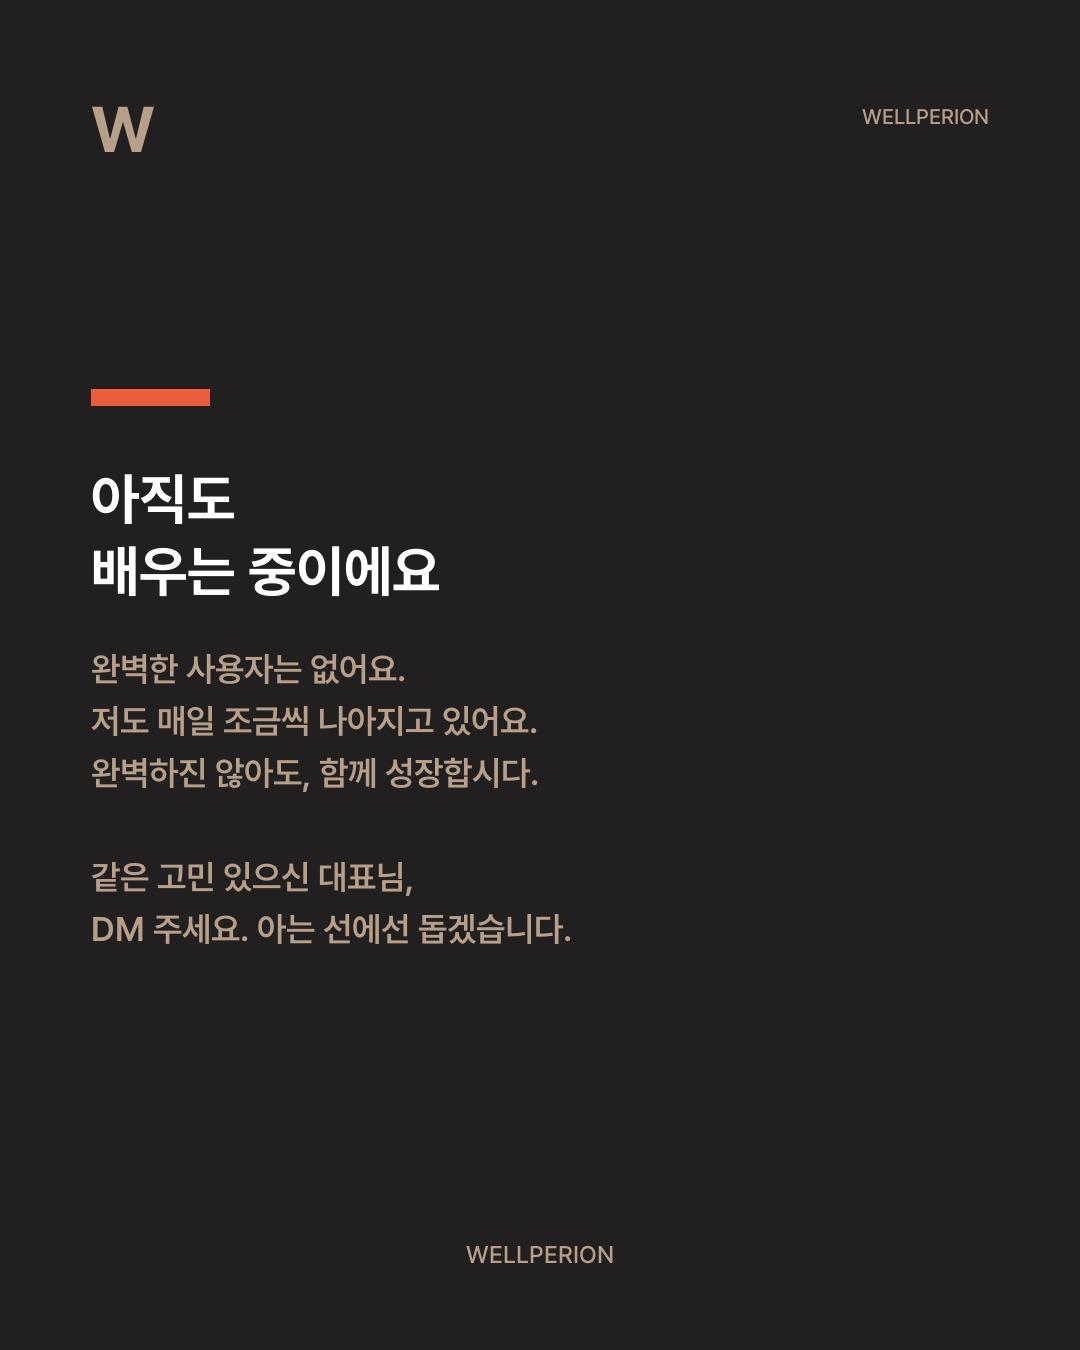
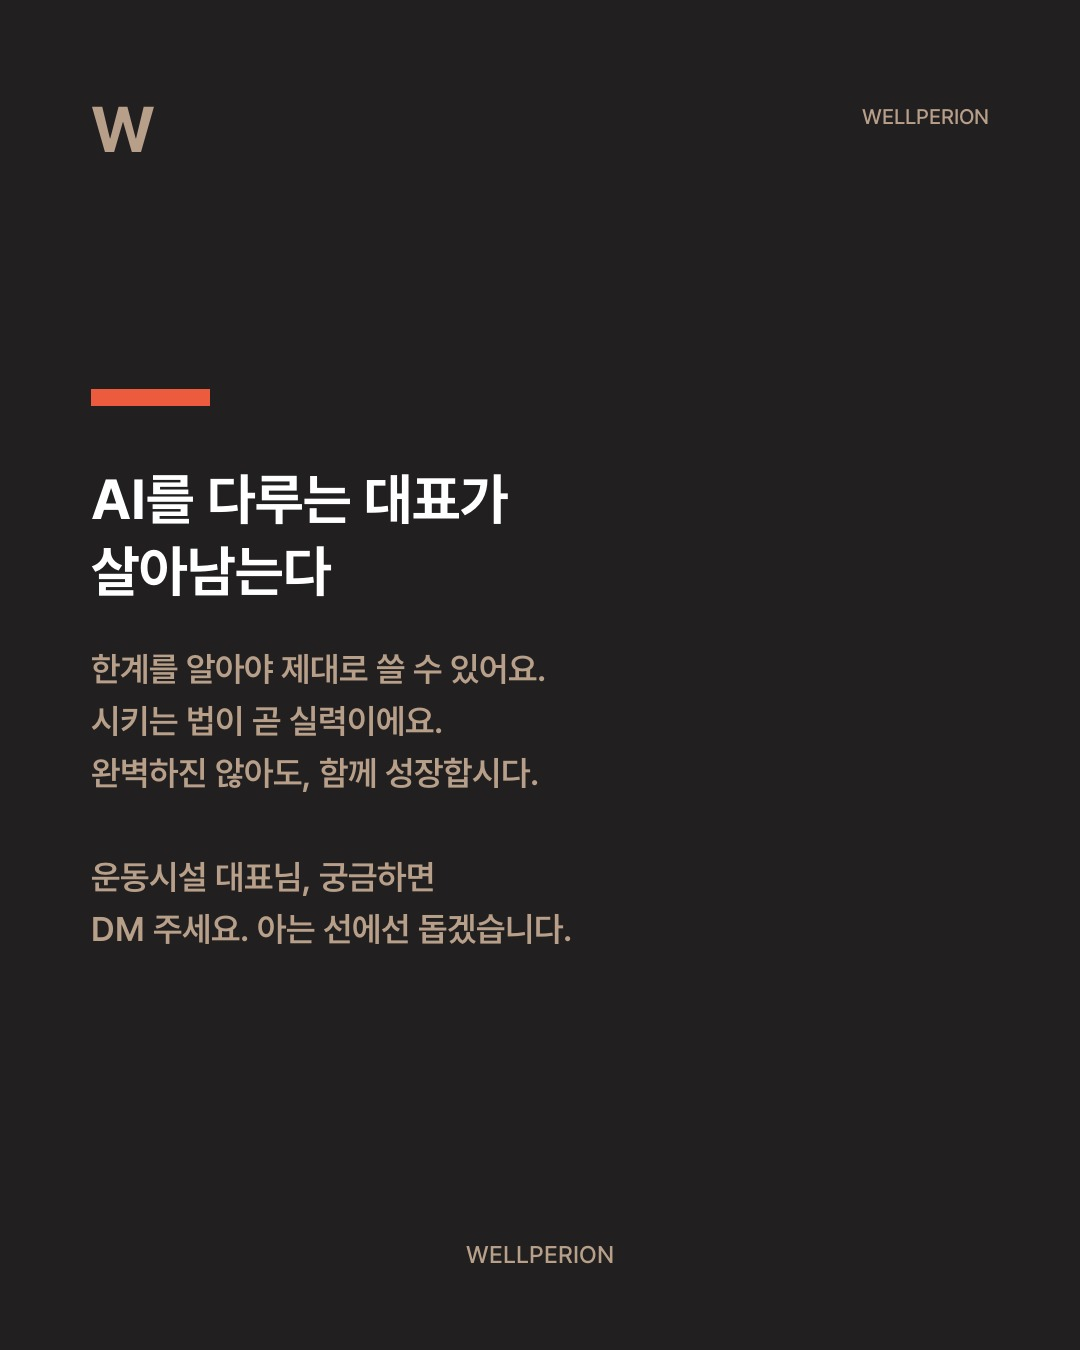
fix(cmo): AI 시리즈 마지막 장 시그니처 슬로건 고정 + #5 6장 수정
- #5(깨진환상들) 6장 kor_title: 아직도 배우는 중이에요 -> AI를 다루는 대표가 살아남는다
- build_slides.py 마지막 장 카피 + CAPTION 슬로건 일관성 반영
- 기획_초안.md 6장 헤드라인 캡션 마무리 동일하게 갱신
- post_6.jpg + montage 재생성, preview cmo/review/ 갱신
- review_queue.json preview 경로 업데이트 (status=검수대기 유지)
- _AI시리즈_로드맵.md: 마지막 장 슬로건 고정 SOP 신설 (2026-06-04 GM 지시)

Changed region(s): [[0.0611, 0.3422, 0.4889, 0.56], [0.0917, 0.6222, 0.3972, 0.6844]]

diff --git a/instagram/260604_AI5_깨진환상들/build_slides.py b/instagram/260604_AI5_깨진환상들/build_slides.py
@@ -38,8 +38,9 @@ CAPTION = (
     "막연하게 시키면 막연하게 답하고, 구체적으로 시키면 구체적으로 움직여요.\n"
     "맥락을 주고, 기준을 알려주고, 결과를 검수하는 건 결국 제 몫이더라고요.\n\n"
     "도구는 쓰는 사람을 닮아요.\n"
-    "아직도 배우는 중이지만, 완벽하진 않아도 함께 성장합시다.\n\n"
-    "같은 고민 있으신 대표님, DM 주세요. 아는 선에선 돕겠습니다.\n\n"
+    "한계를 알아야 제대로 쓸 수 있어요. AI를 다루는 대표가 살아남습니다.\n"
+    "완벽하진 않아도, 함께 성장합시다.\n\n"
+    "운동시설 대표님, DM 주세요. 아는 선에선 돕겠습니다.\n\n"
     "#AI #AI활용 #AI한계 #AI오해 #스포츠클럽 #일하는방식 #대표일상 #한남동 #웰페리온"
 )
 
@@ -110,14 +111,14 @@ def main() -> None:
         paths.append(out)
         print(f"[OK] {out.name} - {r['layout']} ({r['size_kb']}KB)")
 
-    # 마지막 장 = 아직도 배우는 중 + 함께 성장 + DM 유도 (GM 사양)
+    # 마지막 장 = 시그니처 슬로건 고정(2026-06-04 GM 지시 — 전 편 공통) + 함께 성장 + DM 유도
     last_out = OUT / f"post_{len(SLIDES) + 1}.jpg"
     r = compose_text_slide(
         output=last_out,
         brand_key="main",
         logo_style=LOGO_STYLE,
-        kor_title="아직도\n배우는 중이에요",
-        body="완벽한 사용자는 없어요.\n저도 매일 조금씩 나아지고 있어요.\n완벽하진 않아도, 함께 성장합시다.\n\n같은 고민 있으신 대표님,\nDM 주세요. 아는 선에선 돕겠습니다.",
+        kor_title="AI를 다루는 대표가\n살아남는다",
+        body="한계를 알아야 제대로 쓸 수 있어요.\n시키는 법이 곧 실력이에요.\n완벽하진 않아도, 함께 성장합시다.\n\n운동시설 대표님, 궁금하면\nDM 주세요. 아는 선에선 돕겠습니다.",
     )
     print(f"[OK] {last_out.name} - slogan/DM card ({r['size_kb']}KB)")
     paths.append(last_out)

diff --git a/instagram/260604_AI5_깨진환상들/기획_초안.md b/instagram/260604_AI5_깨진환상들/기획_초안.md
@@ -39,9 +39,9 @@ AI는 만능이 아니다 — 시키는 법을 모르면 도구는 멈춘다.
 대제목 | 그래서 배운\n사람의 몫
 본문 | AI는 잘 시켜야 잘 움직여요.\n맥락을 주고, 기준을 알려주고,\n결과를 검수하는 건 제 몫이에요.\n도구는 쓰는 사람을 닮아요.
 
-### 6장 (마무리 — 함께 성장 + DM CTA)
-한글 | 아직도\n배우는 중이에요
-본문 | 완벽한 사용자는 없어요.\n저도 매일 조금씩 나아지고 있어요.\n완벽하진 않아도, 함께 성장합시다.\n\n같은 고민 있으신 대표님,\nDM 주세요. 아는 선에선 돕겠습니다.
+### 6장 (마무리 — 시그니처 슬로건 + 함께 성장 + DM CTA)
+한글 | AI를 다루는 대표가\n살아남는다
+본문 | 한계를 알아야 제대로 쓸 수 있어요.\n시키는 법이 곧 실력이에요.\n완벽하진 않아도, 함께 성장합시다.\n\n운동시설 대표님, 궁금하면\nDM 주세요. 아는 선에선 돕겠습니다.
 
 ## 3. 캡션 초안 (GM이 자기 목소리로 다듬을 여지)
 AI를 쓰며 깨진 환상들 — 솔직하게 털어놓을게요.
@@ -58,9 +58,10 @@ AI를 쓰며 깨진 환상들 — 솔직하게 털어놓을게요.
 맥락을 주고, 기준을 알려주고, 결과를 검수하는 건 결국 제 몫이더라고요.
 
 도구는 쓰는 사람을 닮아요.
-아직도 배우는 중이지만, 완벽하진 않아도 함께 성장합시다.
+한계를 알아야 제대로 쓸 수 있어요. AI를 다루는 대표가 살아남습니다.
+완벽하진 않아도, 함께 성장합시다.
 
-같은 고민 있으신 대표님, DM 주세요. 아는 선에선 돕겠습니다.
+운동시설 대표님, DM 주세요. 아는 선에선 돕겠습니다.
 
 #AI #AI활용 #AI한계 #AI오해 #스포츠클럽 #일하는방식 #대표일상 #한남동 #웰페리온
 

diff --git a/instagram/_AI시리즈_로드맵.md b/instagram/_AI시리즈_로드맵.md
@@ -7,6 +7,16 @@
 톤 1 1인칭 진솔·생각 리더십. 회원 모집·멤버십 마케팅 톤 배제. 개인계정 CTA = DM 문의 + 함께 성장(아래 SOP).
 제작 표준 1 slide_compositor.py compose_text_slide(main 프리셋) 텍스트 중심 양식. 5장 내외(표지+본문+마무리).
 
+## ★ 마지막 장 시그니처 슬로건 고정 (2026-06-04 GM 지시 — 전 편 공통 SOP)
+모든 편(개인계정 namuk.wellperion) 마지막 장 메인 슬로건 = **"AI를 다루는 대표가 살아남는다"** 로 고정.
+매 편 다른 마무리 슬로건 생성 금지. 그 아래 본문/CTA(완벽하진 않아도 함께 성장합시다 + 운동시설 대표님 DM)는 편별 맥락 허용하되 헤드라인 슬로건은 불변.
+
+- build_slides.py 마지막 장 `kor_title` = `"AI를 다루는 대표가\n살아남는다"` 고정 의무.
+- 기획_초안.md 6장 한글 헤드라인도 동일하게 기재.
+- 캡션 마무리도 이 슬로건과 모순 없게 작성.
+
+> **운영 메모**: #8(피날레) 편의 제목·전체 주제 자체가 "AI를 다루는 대표가 살아남는다"다. 매 편 반복돼 온 시그니처가 피날레에서 전면화되는 의도된 반복→귀결 모티프이므로, #8에서 이 슬로건이 '제목·중심 주제'로 승격되는 것은 규칙 위반이 아닌 설계다.
+
 ## ★ 계정별 로고 규칙 (2026-06-02 GM 결정 — 전 콘텐츠 공통 SOP)
 콘텐츠 제작 시 대상 계정에 따라 로고를 자동 구분한다. compositor `compose_text_slide(logo_style=...)` 인자로 적용.
 
